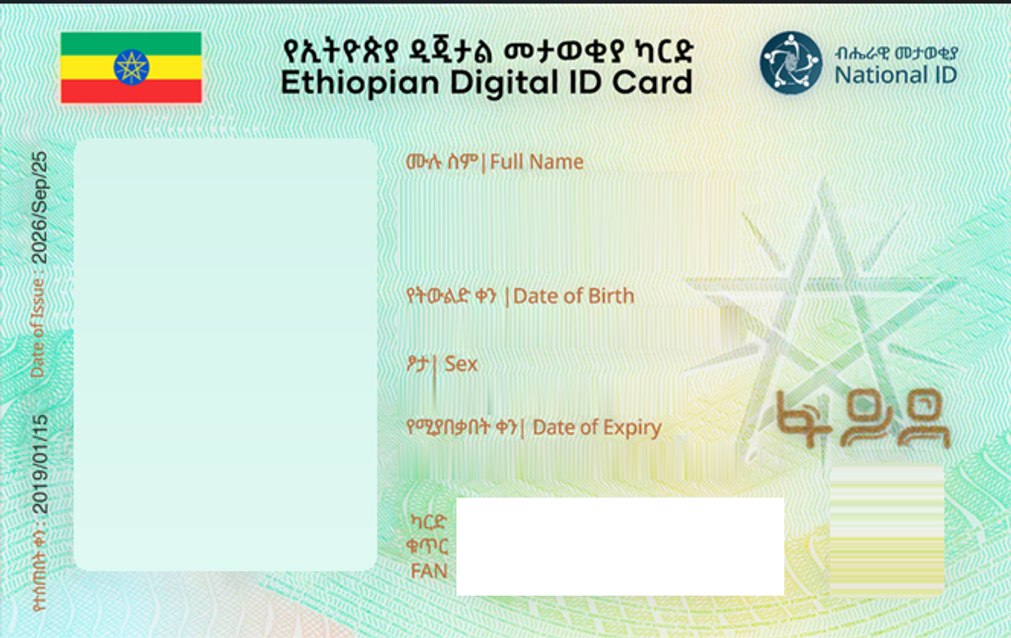
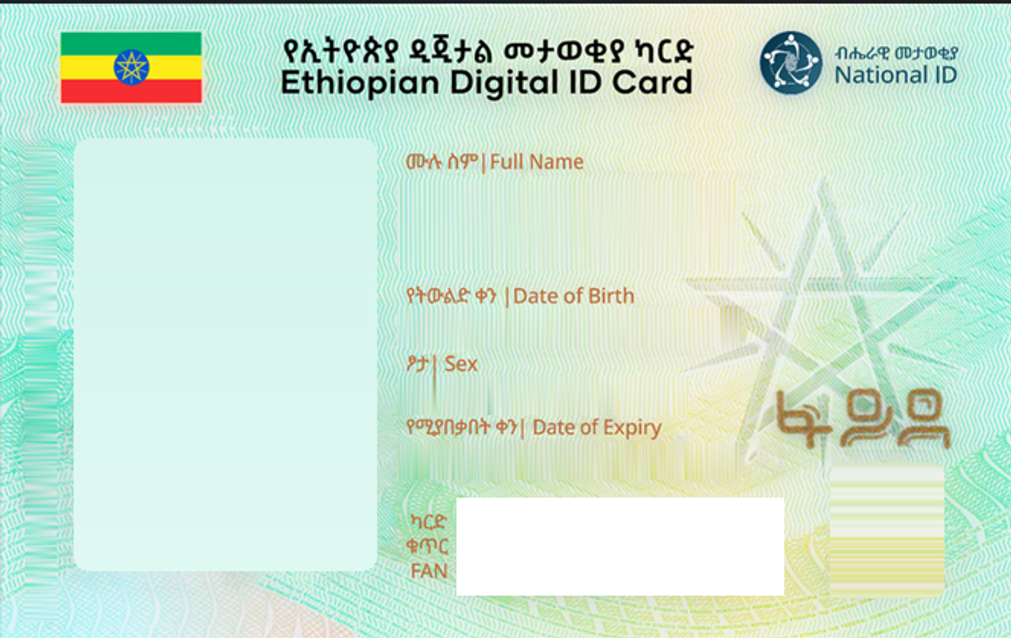
feat(date): make issue date and expiry date fully dynamic, remove burned-in margin dates, and dynamically render vertical margin text

Changed region(s): [[0.0, 0.2382, 0.0613, 0.9828]]

diff --git a/lib/pdf/extract.ts b/lib/pdf/extract.ts
@@ -66,6 +66,28 @@ function convertRawImageToDataUrl(img: { width: number; height: number; data: Ui
   }
 }
 
+export function convertGregorianToEthiopian(date: Date = new Date()): { year: number; month: number; day: number; formatted: string } {
+  const gYear = date.getFullYear();
+  const gMonth = date.getMonth() + 1;
+  const gDay = date.getDate();
+
+  const a = Math.floor((14 - gMonth) / 12);
+  const y = gYear + 4800 - a;
+  const m = gMonth + 12 * a - 3;
+  const jdn = gDay + Math.floor((153 * m + 2) / 5) + 365 * y + Math.floor(y / 4) - Math.floor(y / 100) + Math.floor(y / 400) - 32045;
+
+  const ethJdnOffset = 1723856;
+  const r = (jdn - ethJdnOffset) % 1461;
+  const n = (r % 365) + 365 * Math.floor(r / 1460);
+  const ethYear = 4 * Math.floor((jdn - ethJdnOffset) / 1461) + Math.floor(r / 365) - Math.floor(r / 1460);
+  const ethMonth = Math.floor(n / 30) + 1;
+  const ethDay = (n % 30) + 1;
+
+  const mm = String(ethMonth).padStart(2, "0");
+  const dd = String(ethDay).padStart(2, "0");
+  return { year: ethYear, month: ethMonth, day: ethDay, formatted: `${ethYear}/${mm}/${dd}` };
+}
+
 export async function extractIdDataFromPdf(
   file: File,
   source: RenderedPdf
@@ -162,13 +184,28 @@ export async function extractIdDataFromPdf(
   const woredaItems = findItems(195, 360, 348, 372);
   const worAmh = woredaItems.find((i) => /[\u1200-\u137F]/.test(i.str))?.str;
   const worEng = woredaItems.find((i) => /^[A-Za-z\s]+$/.test(i.str))?.str;
-
   const phoneItem = findItems(50, 150, 380, 400)[0]?.str;
 
   const datesFound = extractedText.match(/\b(\d{2}\/\d{2}\/\d{4})\b/g) || [];
   const fanMatch = extractedText.match(/\b(\d{4}\s+\d{4}\s+\d{4}\s+\d{4})\b/);
   const finMatch = extractedText.match(/(?:FIN|UIN)[:\s]*([0-9\s]{10,15})/i);
   const snMatch = extractedText.match(/SN[:\s]*(\d{7,10})/i);
+
+  const issueMatch = extractedText.match(/(?:Issue\s*Date|የተሰጠበት\s*ቀን)[:\s]*([0-9\/\-A-Za-z]+)/i);
+  const expiryMatch = extractedText.match(/(?:Expiry\s*Date|የሚያበቃበት\s*ቀን)[:\s]*([0-9\/\-A-Za-z]+)/i);
+
+  // Dynamic Issue and Expiry dates (8-year Fayda validity)
+  const now = new Date();
+  const ethNow = convertGregorianToEthiopian(now);
+  const MONTHS = ["Jan", "Feb", "Mar", "Apr", "May", "Jun", "Jul", "Aug", "Sep", "Oct", "Nov", "Dec"];
+  const nowGregFormatted = `${now.getFullYear()}/${MONTHS[now.getMonth()]}/${String(now.getDate()).padStart(2, "0")}`;
+
+  const expGregYear = now.getFullYear() + 8;
+  const expDay = Math.max(1, now.getDate() - 2);
+  const expGregFormatted = `${expGregYear}/${MONTHS[now.getMonth()]}/${String(expDay).padStart(2, "0")}`;
+  const expEthYear = ethNow.year + 8;
+  const expEthDay = Math.max(1, ethNow.day - 2);
+  const expEthFormatted = `${expEthYear}/${String(ethNow.month).padStart(2, "0")}/${String(expEthDay).padStart(2, "0")}`;
 
   const data: EthiopianIdData = {
     fullNameAmharic: amharicName || "ዮሰፍ ጊርማ ቱፋ",
@@ -177,10 +214,10 @@ export async function extractIdDataFromPdf(
     dateOfBirthGreg: datesFound[0] || "02/Jan/2002",
     sexAmharic: extractedText.includes("ወንድ") ? "ወንድ" : extractedText.includes("ሴት") ? "ሴት" : "ወንድ",
     sexEnglish: extractedText.includes("Female") ? "Female" : "Male",
-    dateOfExpiryEth: "2027/01/13",
-    dateOfExpiryGreg: "2034/Sep/23",
-    dateOfIssueEth: "2019/01/15",
-    dateOfIssueGreg: "2026/Sep/25",
+    dateOfExpiryEth: expiryMatch ? expiryMatch[1] : expEthFormatted,
+    dateOfExpiryGreg: expiryMatch ? expiryMatch[1] : expGregFormatted,
+    dateOfIssueEth: issueMatch ? issueMatch[1] : ethNow.formatted,
+    dateOfIssueGreg: issueMatch ? issueMatch[1] : nowGregFormatted,
     fanNumber: fanMatch ? fanMatch[1] : "8029 5016 4312 4539",
     finNumber: finMatch ? finMatch[1].replace(/\s+/g, "") : "214270390587",
     serialNumber: snMatch ? snMatch[1] : "65501482",

diff --git a/lib/pdf/generate-landscape.ts b/lib/pdf/generate-landscape.ts
@@ -319,6 +319,29 @@ export async function renderFrontCardToCanvas(data: EthiopianIdData): Promise<HT
     }
   }
 
+  // 6. Dynamic Vertical Issue Date on Left Margin
+  ctx.save();
+  ctx.translate(38, 605);
+  ctx.rotate(-Math.PI / 2);
+  ctx.font = "bold 14px 'Noto Sans Ethiopic', sans-serif";
+  ctx.fillStyle = "#C68932";
+  ctx.fillText("የተሰጠበት ቀን: ", 0, 0);
+  const w1 = ctx.measureText("የተሰጠበት ቀን: ").width;
+
+  ctx.fillStyle = "#020617";
+  ctx.font = "bold 14px 'Inter', sans-serif";
+  ctx.fillText(data.dateOfIssueEth, w1, 0);
+  const w2 = w1 + ctx.measureText(data.dateOfIssueEth).width;
+
+  ctx.fillStyle = "#C68932";
+  ctx.font = "bold 14px 'Inter', sans-serif";
+  ctx.fillText("   Date of Issue: ", w2, 0);
+  const w3 = w2 + ctx.measureText("   Date of Issue: ").width;
+
+  ctx.fillStyle = "#020617";
+  ctx.fillText(formatGregorianDate(data.dateOfIssueGreg), w3, 0);
+  ctx.restore();
+
   return canvas;
 }
 

diff --git a/components/LandscapeCardFront.tsx b/components/LandscapeCardFront.tsx
@@ -80,6 +80,17 @@ export function LandscapeCardFront({ data, className = "" }: LandscapeCardFrontP
           <img src={data.photoUrl} alt="Ghost portrait" className="w-full h-full object-cover" />
         </div>
       )}
+
+      {/* 6. Dynamic Vertical Issue Date on Left Margin */}
+      <div
+        className="absolute left-[3.6%] bottom-[6.5%] origin-bottom-left -rotate-90 pointer-events-none select-none whitespace-nowrap text-[8.5px] sm:text-[10px] font-bold"
+        style={{ letterSpacing: "0.02em" }}
+      >
+        <span className="text-[#C68932]">የተሰጠበት ቀን: </span>
+        <span className="text-slate-900">{data.dateOfIssueEth}</span>
+        <span className="text-[#C68932]">&nbsp;&nbsp;Date of Issue: </span>
+        <span className="text-slate-900">{formatGregorianDate(data.dateOfIssueGreg)}</span>
+      </div>
     </div>
   );
 }
